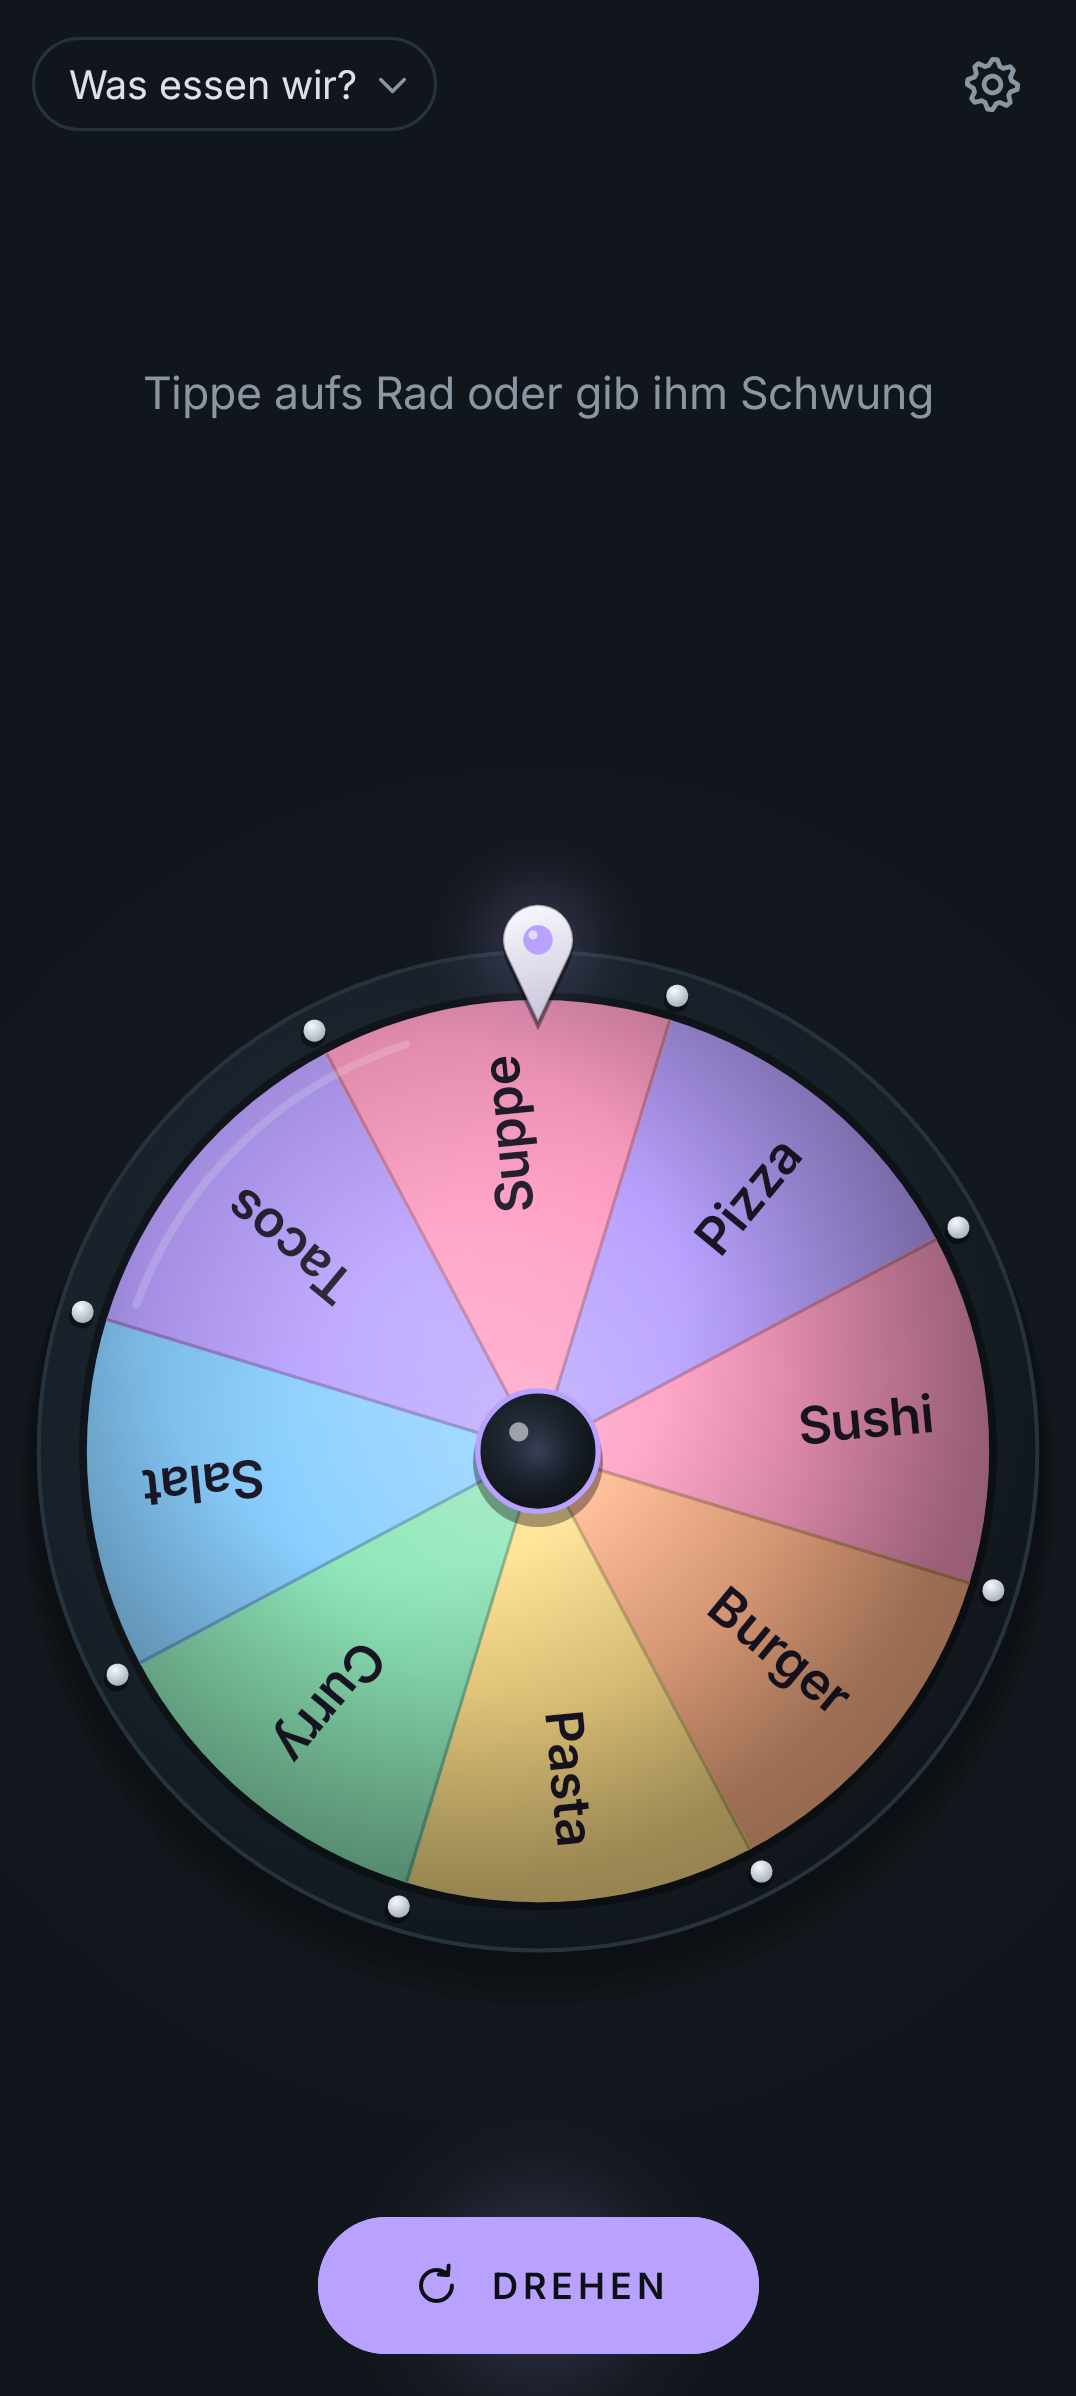
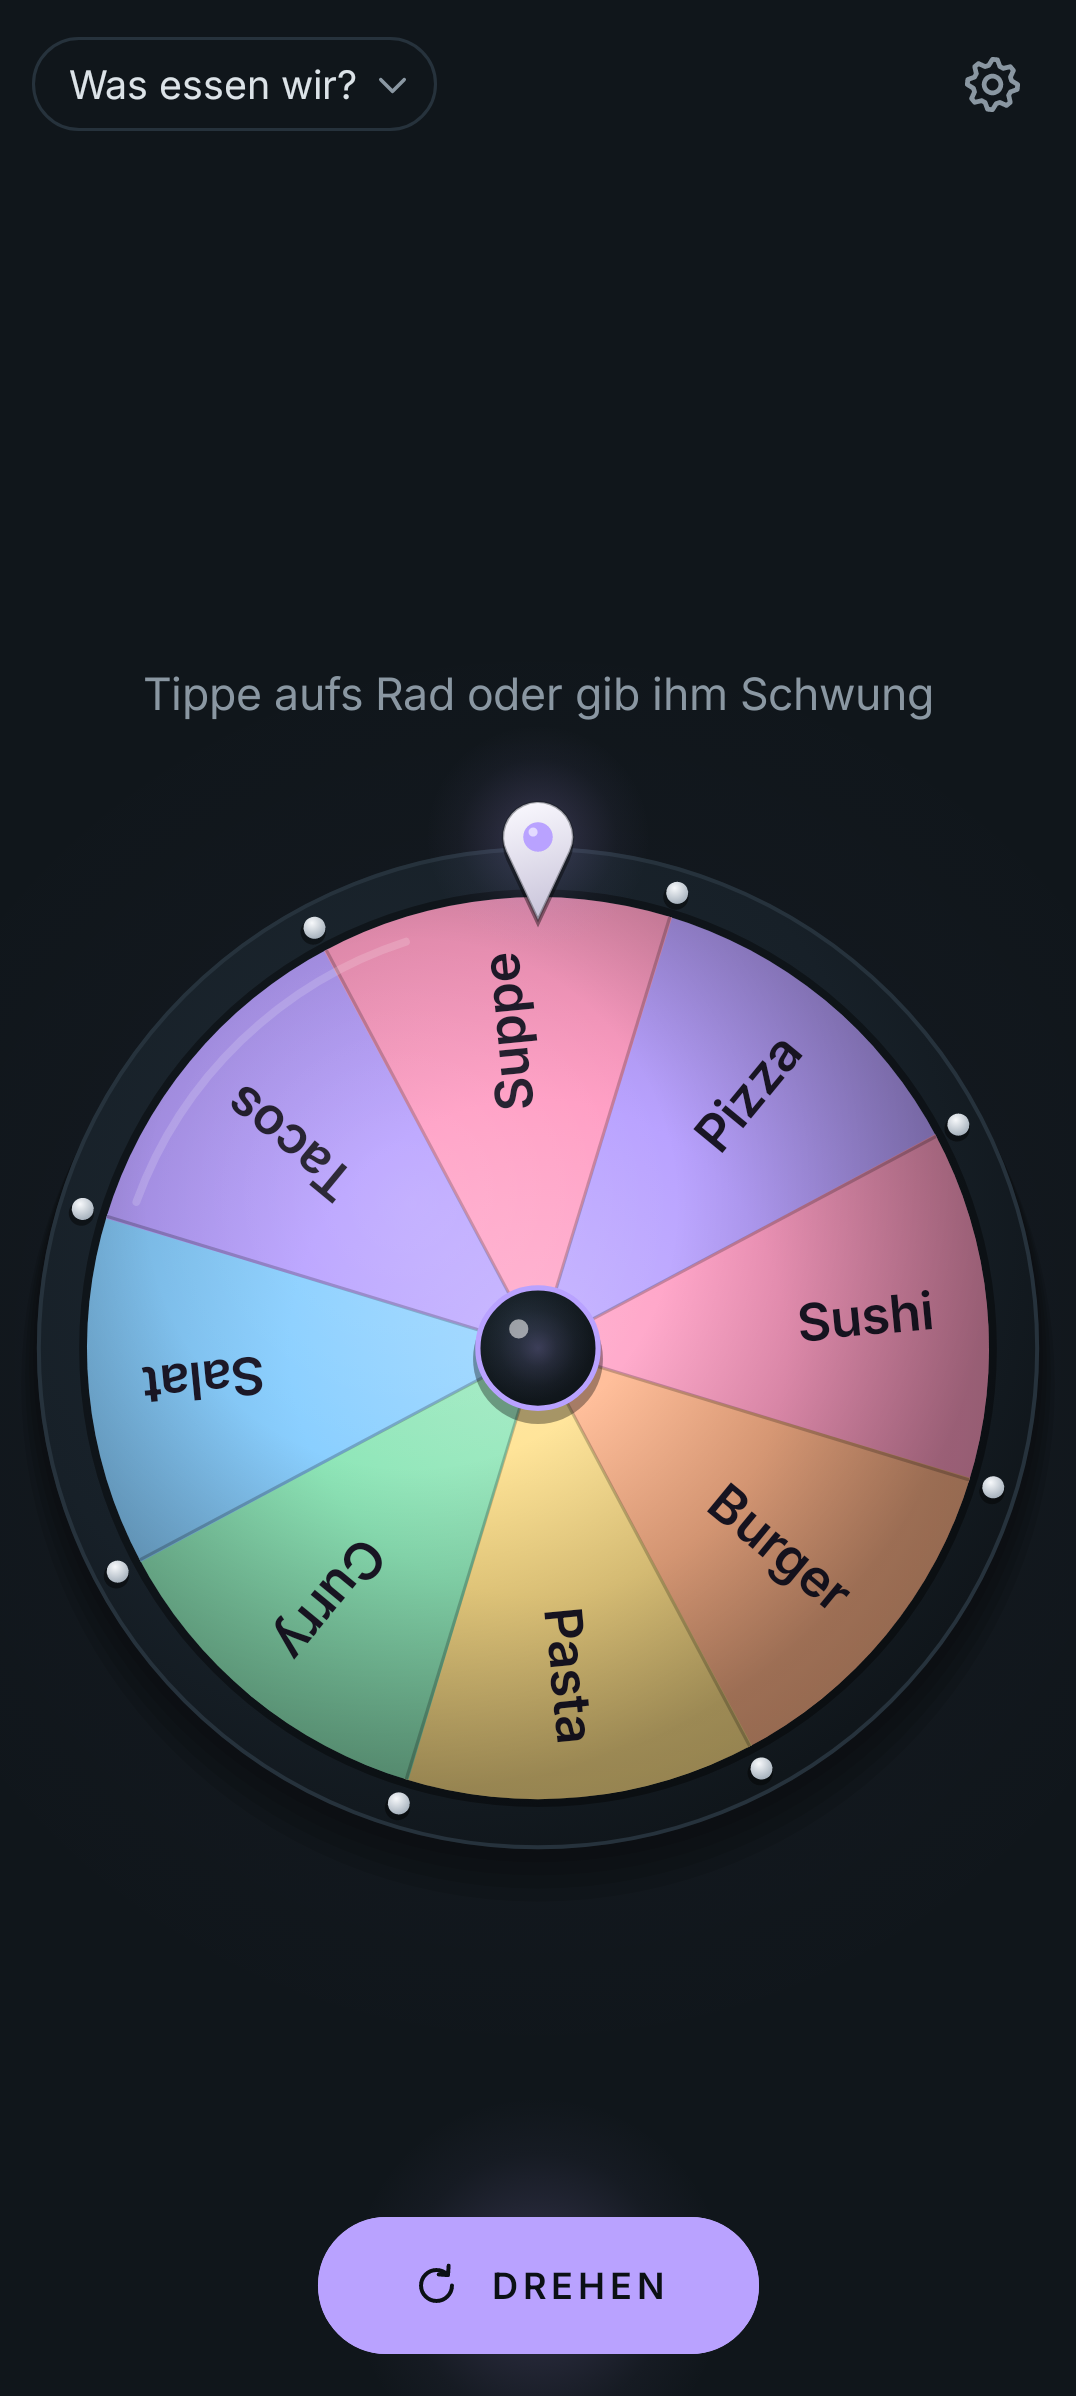
spinr: Screenshots neu, 50 Einträge, 360 dp mit 30, Gewinner unter dem Zeiger

Changed region(s): [[0.0307, 0.278, 0.9814, 0.803], [0.1533, 0.1544, 0.8587, 0.1853]]

diff --git a/apps/spinr/src/test/kotlin/com/valueerrorx/spinr/screenshots/SpinScreenshotTest.kt b/apps/spinr/src/test/kotlin/com/valueerrorx/spinr/screenshots/SpinScreenshotTest.kt
@@ -6,15 +6,18 @@ import com.github.takahirom.roborazzi.RoborazziOptions
 import com.github.takahirom.roborazzi.captureRoboImage
 import com.valueerrorx.aapps.core.ui.AappsTheme
 import com.valueerrorx.spinr.SpinrAccent
+import com.valueerrorx.spinr.domain.Palette
 import com.valueerrorx.spinr.domain.Wheel
 import com.valueerrorx.spinr.domain.WheelMath
 import com.valueerrorx.spinr.templates
 import com.valueerrorx.spinr.ui.EditorScreen
 import com.valueerrorx.spinr.ui.SpinScreen
 import com.valueerrorx.spinr.ui.SpinState
+import com.valueerrorx.spinr.ui.SpinrPalette
 import com.valueerrorx.spinr.ui.SpinrAbout
 import com.valueerrorx.spinr.ui.SpinrSettings
 import com.valueerrorx.spinr.ui.WheelsScreen
+import org.junit.Assert.assertEquals
 import org.junit.Test
 import org.junit.runner.RunWith
 import org.robolectric.RobolectricTestRunner
@@ -90,16 +93,35 @@ class SpinScreenshotTest {
 
     @Test fun result_land() = shot("result_land", "+land") { Result() }
 
+    // Gewinner genau unter dem Zeiger: das hervorgehobene Segment muss oben stehen
     @Test fun many() = shot("many") {
         val labels = (1..30).map { "$it" }
-        val angle = WheelMath.angleFor(16, 30).toFloat() - 2f
-        Spin(SpinState(labels).apply { pose(angle, winner = 16) }, "1 – 30")
+        val state = SpinState(labels).apply { pose(WheelMath.angleFor(16, 30).toFloat(), winner = 16) }
+        assertEquals(16, state.current)
+        Spin(state, "1 – 30")
+    }
+
+    // 50 Eintraege, Ruhe: kleinste Schrift
+    @Test fun many50() = shot("many50") {
+        val labels = (1..50).map { "Option $it" }
+        Spin(SpinState(labels).apply { pose(3f) }, "1 – 50")
+    }
+
+    @Test fun many_360dp() = shot("many_360dp", "w360dp-h740dp-normal-long-notround-any-xhdpi-keyshidden-nonav") {
+        val labels = (1..30).map { "$it" }
+        Spin(SpinState(labels).apply { pose(3f) }, "1 – 30")
+    }
+
+    @Test fun many50_font200() = shot("many50_font200", fontScale = 2f) {
+        val labels = (1..50).map { "Option $it" }
+        Spin(SpinState(labels).apply { pose(3f) }, "1 – 50")
     }
 
     @Test fun removed() = shot("removed") {
         val w = food()
-        val left = w.labels.filterIndexed { i, _ -> i != 1 && i != 5 }
-        Spin(SpinState(left).apply { pose(40f) }, w.name, removed = 2)
+        val ids = w.labels.indices.filter { it != 1 && it != 5 }
+        val colors = Palette.colors(ids, w.labels.size, SpinrPalette.size).map { SpinrPalette[it] }
+        Spin(SpinState(ids.map { w.labels[it] }, colors).apply { pose(40f) }, w.name, removed = 2)
     }
 
     @Composable
